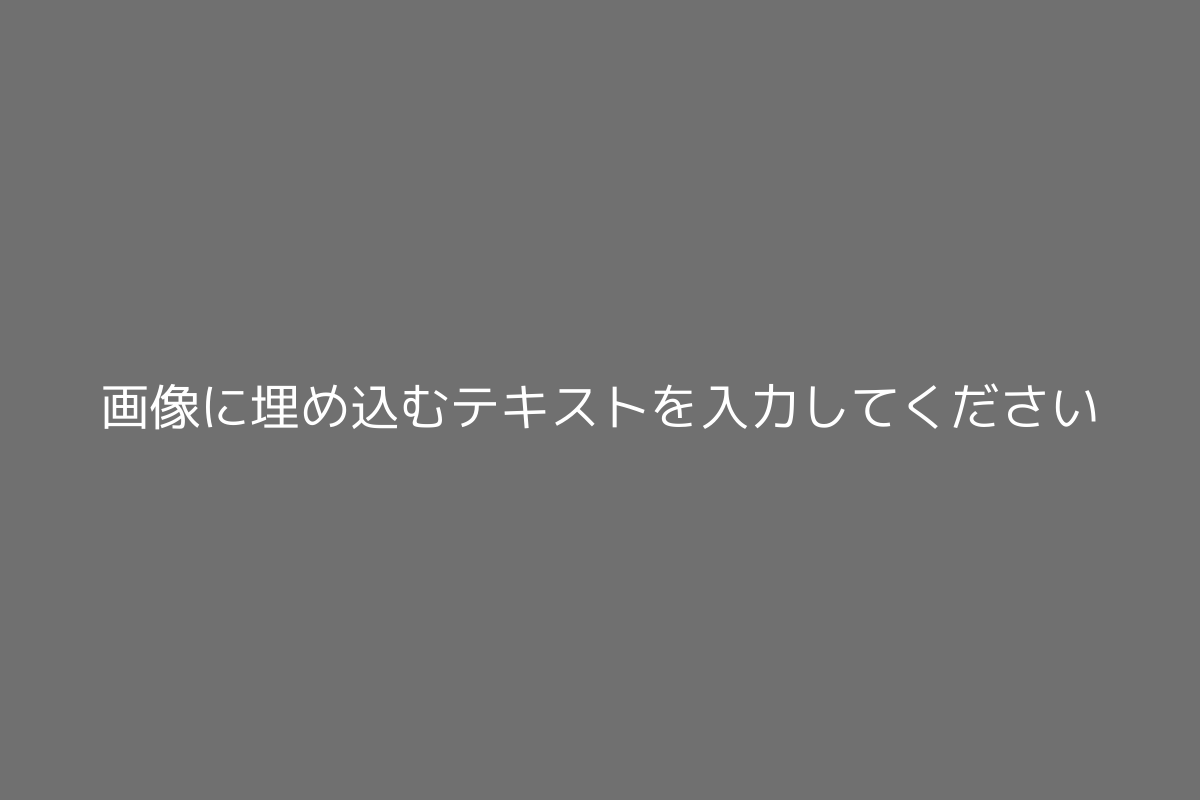
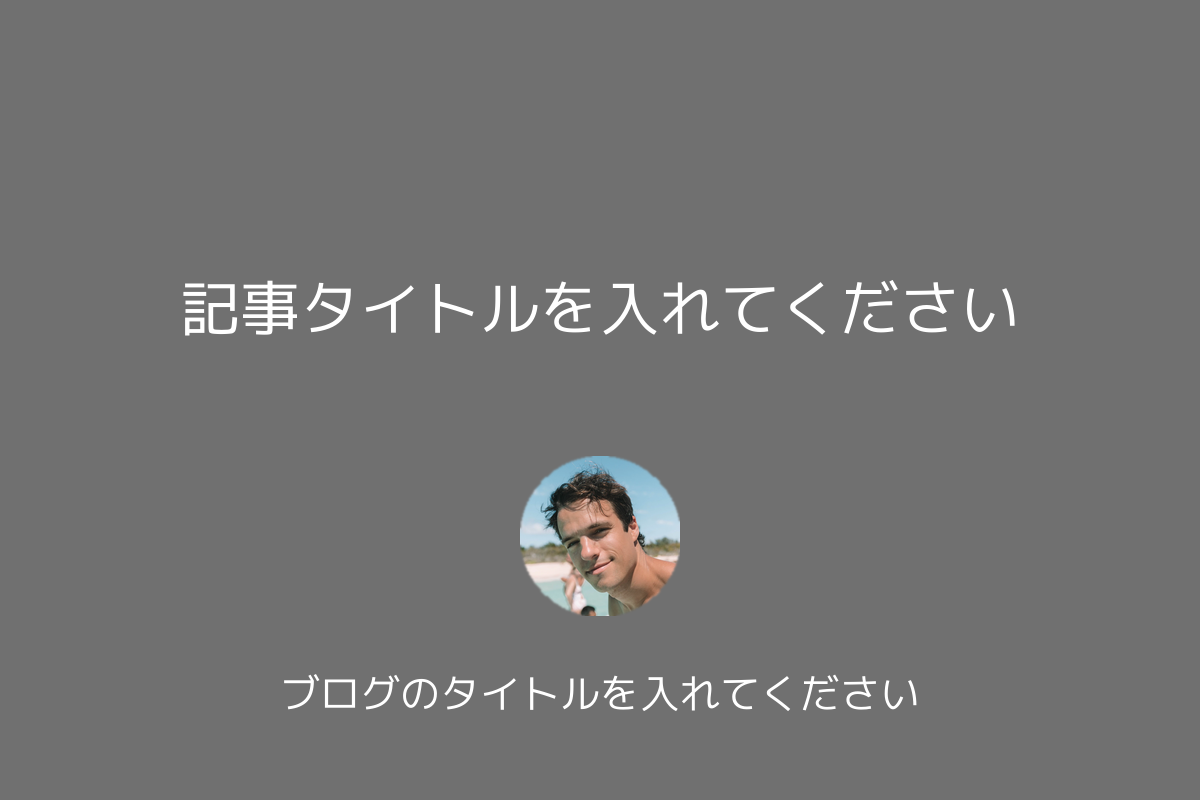
画像とサブテキストを追加

diff --git a/mkogp.py b/mkogp.py
@@ -1,21 +1,40 @@
-from PIL import Image, ImageDraw, ImageFont
+from PIL import Image, ImageDraw, ImageFont, ImageFilter
 
 
 def mkogp():
     imageSize = (1200, 800)
+    iconSize = (160, 160)
     backgroundColor = (112, 112, 112)
     textColor = (255, 255, 255)
-    fontSize = 50
-    text = "画像に埋め込むテキストを入力してください"
+    text = "記事タイトルを入れてください"
+    fontSize = 60
+    subText = "ブログのタイトルを入れてください"
+    subFontSize = 40
 
     im = Image.new("RGB", imageSize, backgroundColor)
+
+    add_text(im, text, fontSize, textColor, imageSize[0]//2, imageSize[1]//3)
+    add_text(im, subText, subFontSize, textColor, imageSize[0]//2, imageSize[1]//6 * 5)
+
+    icon_path = './icon.png'
+    icon = Image.open(icon_path).copy()
+    icon = icon.resize(size=iconSize, resample=Image.ANTIALIAS)
+    mask = Image.new("L", icon.size, 0)
+    draw = ImageDraw.Draw(mask)
+    draw.ellipse((0, 0, icon.size[0], icon.size[1]), fill=255)
+    mask = mask.filter(ImageFilter.GaussianBlur(1))
+    icon.putalpha(mask)
+    im.paste(icon, (imageSize[0] // 2 - iconSize[0] // 2,
+         imageSize[1] // 7 * 4), icon)
+
+    im.save("./image.png")
+
+def add_text(im, text, fontSize, textColor, width, height):
     draw = ImageDraw.Draw(im)
     font = ImageFont.truetype('./MPLUS1p-Regular.ttf', fontSize)
     textWidth, textHeight = draw.textsize(text, font=font)
-    textTopLeft = (imageSize[0]//2-textWidth//2,
-                   imageSize[1]//2-textHeight//2)
+    textTopLeft = (width - textWidth // 2, height)
     draw.text(textTopLeft, text, fill=textColor, font=font)
-    im.save("./image.png")
 
 
 if __name__ == '__main__':
